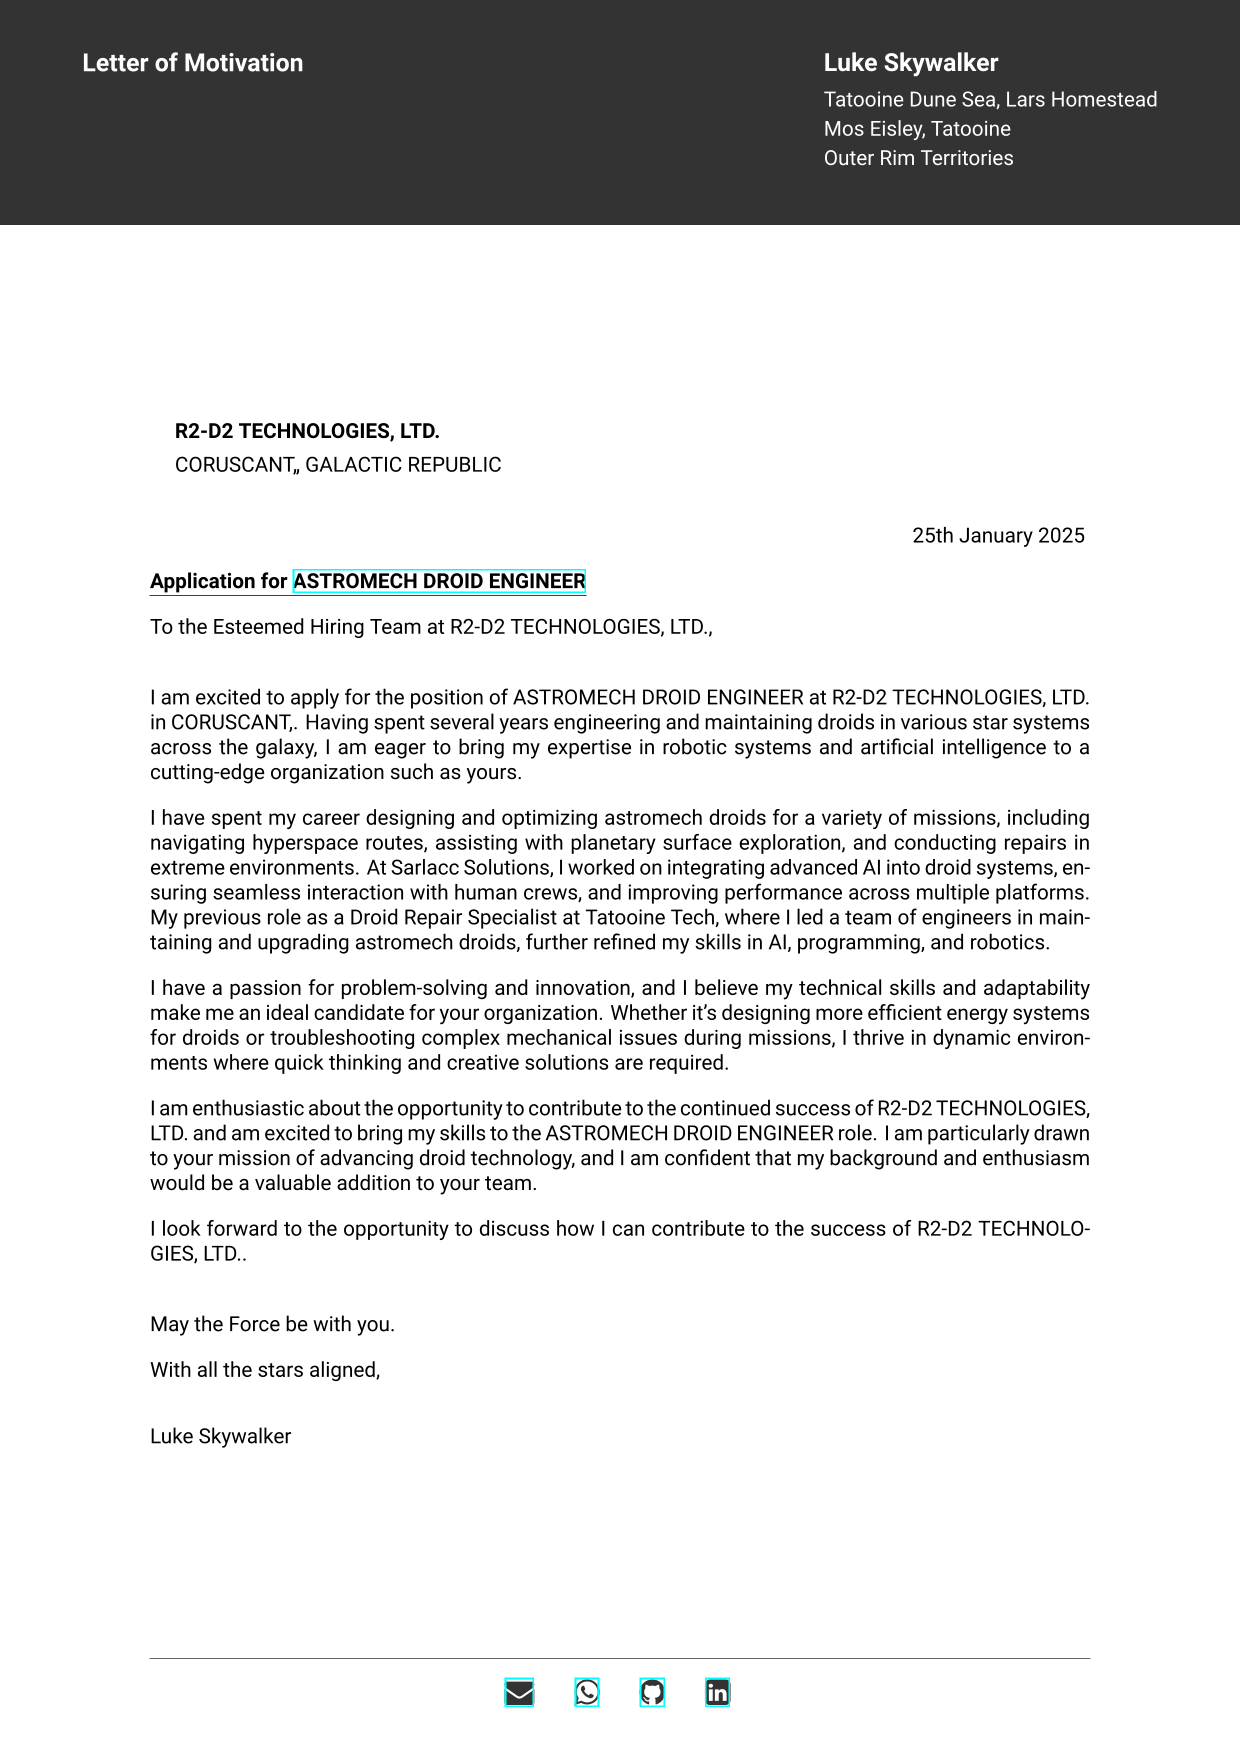
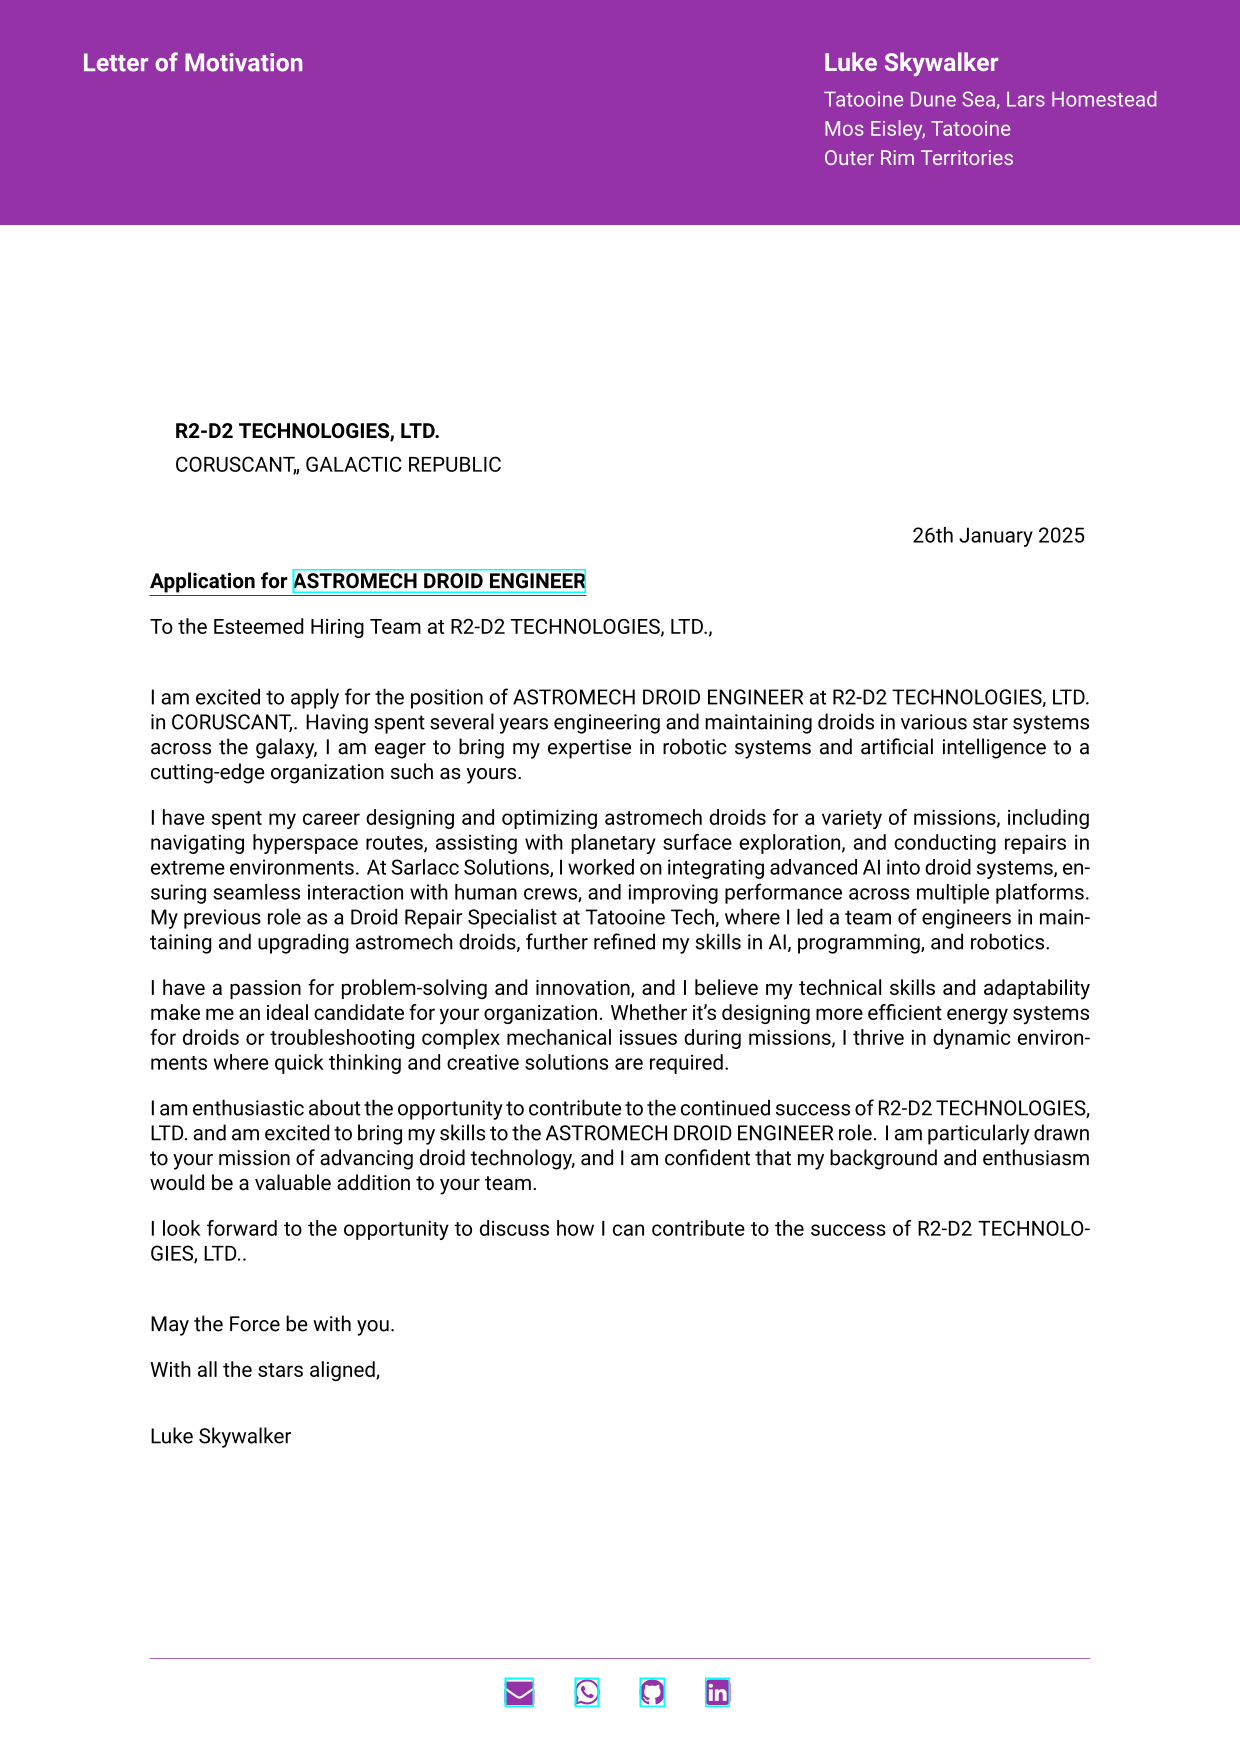
change personal data file import

diff --git a/generate_tex.py b/generate_tex.py
@@ -1,9 +1,12 @@
 import os
 import time
 
+# path to personal data file
+PERSONAL_DATA_FILE = "../coverletter_template/personal-data.tex"
+COVERLETTER_FILENAME = "coverletter.tex"
+
 # Path to the template file
-#template_path = os.path.join(os.getcwd(), "coverletter_template", "coverletter-local.tex")
-template_path = os.path.join(os.getcwd(), "coverletter_template", "coverletter.tex")
+template_path = os.path.join(os.getcwd(), "coverletter_template", COVERLETTER_FILENAME)
 
 def generate_tex(company, role, url, city, country, color, filename_with_timestamp):
     # Ensure the 'tex' folder exists
@@ -31,6 +34,7 @@ def generate_tex(company, role, url, city, country, color, filename_with_timesta
     tex_content = tex_content.replace("_CITY_", city)
     tex_content = tex_content.replace("_COUNTRY_", country)
     tex_content = tex_content.replace("_URL_", url)
+    tex_content = tex_content.replace("_PATH_TO_FILE_", PERSONAL_DATA_FILE)
 
     # Replace '#' with an empty string if it exists
     color = color.replace("#", "")

diff --git a/tex/coverletter.tex b/tex/coverletter.tex
@@ -34,7 +34,7 @@
 \setlength{\parskip}{1em} % Vertical space between paragraphs
 
 
-\definecolor{cvcolor}{HTML}{32a852}
+\definecolor{cvcolor}{HTML}{9532a8}
 
 %----------------------------------------------------------------------------------------
 
@@ -45,8 +45,9 @@
 %----------------------------------------------------------------------------------------
 
 % Import the personal data
-\input{personal-data.tex}
-%\input{personal-data-local.tex}
+%\input{../coverletter_template/personal-data.tex}
+%\input{../coverletter_template/personal-data-local.tex}
+\input{../coverletter_template/personal-data.tex}
 
 %----------------------------------------------------------------------------------------
 % HEADER AND FOOTER CONFIGURATION

diff --git a/coverletter_template/coverletter-local.tex b/coverletter_template/coverletter-local.tex
@@ -33,9 +33,8 @@
 \setlength{\parindent}{0pt} % Paragraph indentation
 \setlength{\parskip}{1em} % Vertical space between paragraphs
 
-\definecolor{cvcolor}{HTML}{333333}
-%\definecolor{cvcolor}{HTML}{FF0000}
-
+%\definecolor{cvcolor}{HTML}{333333}
+\definecolor{cvcolor}{HTML}{_COLOR_}
 
 %----------------------------------------------------------------------------------------
 
@@ -46,8 +45,8 @@
 %----------------------------------------------------------------------------------------
 
 % Import the personal data
-\input{personal-data.tex}
 %\input{personal-data-local.tex}
+\input{_PATH_TO_FILE_}
 
 %----------------------------------------------------------------------------------------
 % HEADER AND FOOTER CONFIGURATION

diff --git a/coverletter_template/coverletter.tex b/coverletter_template/coverletter.tex
@@ -45,8 +45,9 @@
 %----------------------------------------------------------------------------------------
 
 % Import the personal data
-\input{personal-data.tex}
-%\input{personal-data-local.tex}
+%\input{../coverletter_template/personal-data.tex}
+%\input{../coverletter_template/personal-data-local.tex}
+\input{_PATH_TO_FILE_}
 
 %----------------------------------------------------------------------------------------
 % HEADER AND FOOTER CONFIGURATION

diff --git a/generate_pdf.py b/generate_pdf.py
@@ -29,7 +29,7 @@ def generate_pdf(tex_file):
 
     try:
         shutil.move(pdf_output, moved_pdf_path)
-        messagebox.showinfo("Success", f"PDF generated and moved to {moved_pdf_path}")
+        #messagebox.showinfo("Success", f"PDF generated and moved to {moved_pdf_path}")
         print(f"PDF saved to: {moved_pdf_path}")
     except Exception as e:
         messagebox.showerror("Error", f"Failed to move PDF: {e}")

diff --git a/README.md b/README.md
@@ -16,8 +16,8 @@ python main.py
 
 ## Files to Edit
 
-- `tex/personal-data.tex`: Input your personal details here, such as your name, address, and email address. This file contains placeholders for your data, which will be used to generate the cover letter.
-- `coverletter_template/coverletter.tex`: This is the LaTeX template for the cover letter. You can modify the structure and content of the cover letter in this file. The placeholders in this template will be replaced with your personal data from personal-data.tex and and input from the Tkinter form.
+- `coverletter_template/personal-data.tex`: Input your personal details here, such as your name, address, and email address. This file contains placeholders for your data, which will be used to generate the cover letter.
+- `coverletter_template/coverletter.tex`: This is the LaTeX template for the cover letter. You can modify the structure and content of the cover letter in this file. The placeholders in this template will be replaced with your personal data from `personal-data.tex` and the input from the Tkinter form.
 
 ## Preview
 
